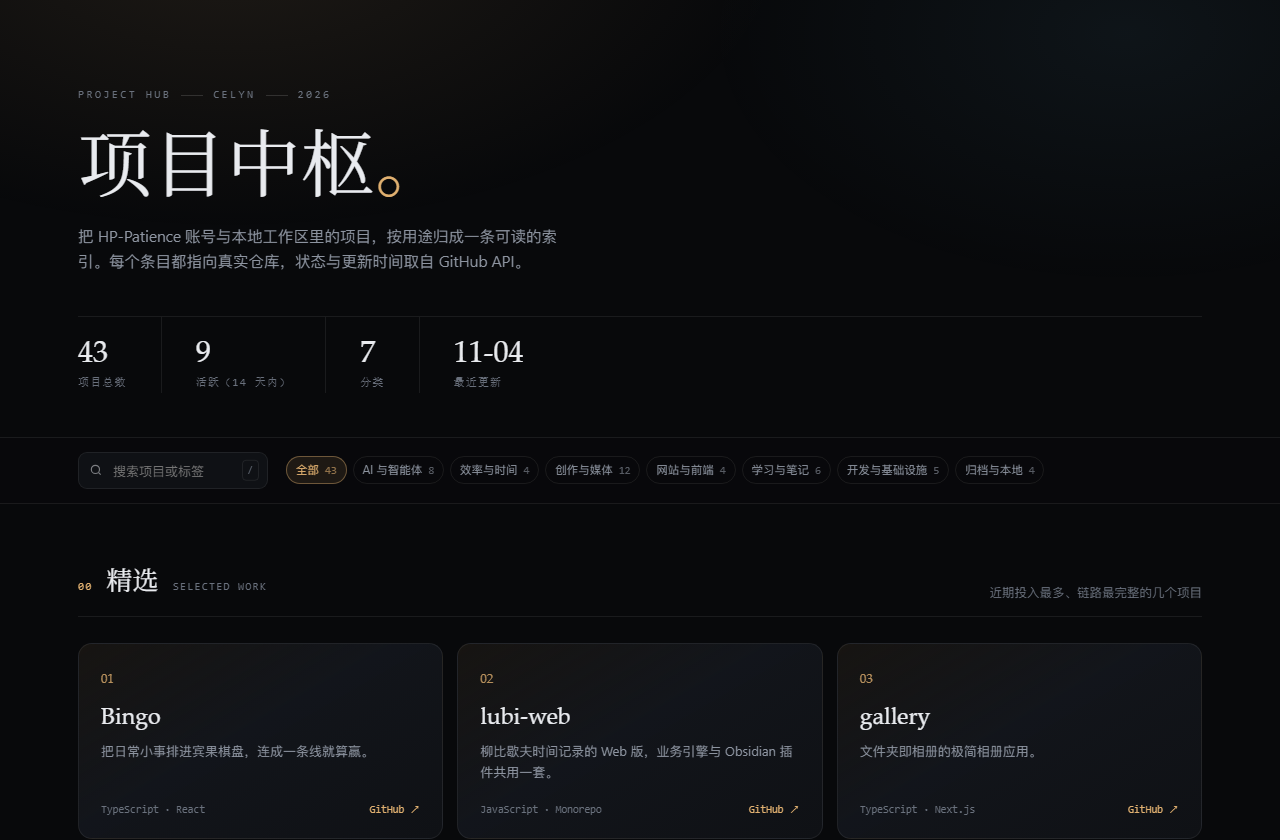
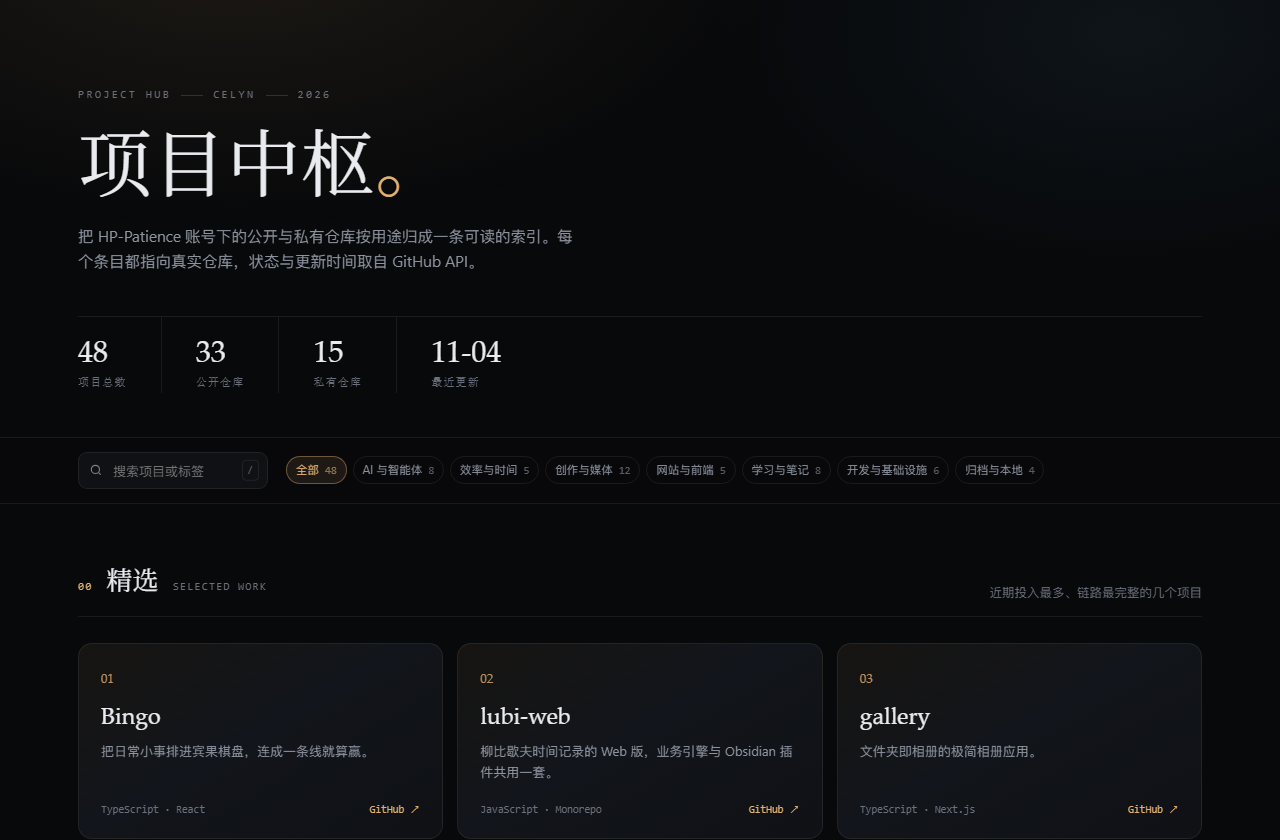
fix: 私有仓库标注为私有，补齐 5 个私有仓（43→48）

diff --git a/index.html b/index.html
@@ -128,6 +128,9 @@
   .status[data-s="fork"]{color:var(--violet)}
   .status[data-s="archived"],.status[data-s="local"]{color:var(--gray)}
   .owner{color:var(--dim);letter-spacing:.02em}
+  .vis{font-family:var(--mono);font-size:9.5px;letter-spacing:.06em;color:var(--amber);
+    border:1px solid rgba(240,184,102,.32);background:rgba(240,184,102,.07);
+    border-radius:4px;padding:1px 5px;margin-left:auto}
   .card h3{margin:0;font-size:17px;font-weight:600;letter-spacing:.005em;line-height:1.35}
   .card h3 a{background-image:linear-gradient(var(--accent),var(--accent));background-size:0 1px;background-repeat:no-repeat;background-position:0 100%;transition:background-size .25s}
   .card:hover h3 a{background-size:100% 1px}
@@ -197,7 +200,7 @@
   <div class="wrap">
     <div class="eyebrow">Project Hub <span class="sep"></span> Celyn <span class="sep"></span> 2026</div>
     <h1>项目中枢<em>。</em></h1>
-    <p class="lede">把 HP-Patience 账号与本地工作区里的项目，按用途归成一条可读的索引。每个条目都指向真实仓库，状态与更新时间取自 GitHub API。</p>
+    <p class="lede">把 HP-Patience 账号下的公开与私有仓库按用途归成一条可读的索引。每个条目都指向真实仓库，状态与更新时间取自 GitHub API。</p>
     <div class="stats" id="stats"></div>
   </div>
 </header>
@@ -240,7 +243,7 @@
     </div>
     <div>
       <div class="mono">生成时间</div>
-      <div>2026-11-04 20:46</div>
+      <div>2026-11-04 21:43</div>
     </div>
     <div>
       <div class="mono">入口</div>
@@ -250,7 +253,7 @@
 </footer>
 
 <script>
-const DATA = {"meta":{"owner":"HP-Patience","accounts":["HP-Patience"],"source":"GitHub REST API（HP-Patience）+ 本地工作区 E:/_Projects/HP_Github_PJ","updated":"2026-11-04"},"categories":[{"id":"ai","name":"AI 与智能体","en":"AI & Agents","desc":"把模型能力落成可用工具：Agent 工作流、技能库、检索与生成。"},{"id":"productivity","name":"效率与时间","en":"Productivity","desc":"任务、时间、知识的管理系统，多数以本地数据与 Markdown 为底座。"},{"id":"creative","name":"创作与媒体","en":"Creative & Media","desc":"图像、声音、视频与游戏：从素材检索到成片输出的完整链路。"},{"id":"web","name":"网站与前端","en":"Web & Frontend","desc":"个人主页、内容工作台与前端练习，多为可直接访问的线上作品。"},{"id":"learning","name":"学习与笔记","en":"Learning & Notes","desc":"课程、教材与研究方向的结构化记录，强调可复习、可追踪。"},{"id":"infra","name":"开发与基础设施","en":"Dev & Infra","desc":"编辑器、桥接层、脚本与配置：支撑上面所有项目的底座。"},{"id":"archive","name":"归档与本地","en":"Archive & Local","desc":"远程已删除、仅本地保留或上游参考版本，不作为活跃项目维护。"}],"projects":[{"name":"Bingo","owner":"HP-Patience","category":"productivity","tagline":"把日常小事排进宾果棋盘，连成一条线就算赢。","desc":"React + Supabase 的宾果式任务管理：完成格子攒 XP、升级解锁头衔，用抽奖与虚拟商店把奖励兑换成真实的休息与零食。","stack":["TypeScript","React","Supabase"],"tags":["任务管理","游戏化","PWA"],"homepage":"https://www.life-bingo.xyz/","featured":true,"updated":"2026-11-04"},{"name":"lubi-web","owner":"HP-Patience","category":"productivity","tagline":"柳比歇夫时间记录的 Web 版，业务引擎与 Obsidian 插件共用一套。","desc":"monorepo（apps + packages），把时间轴记录、计时、周月年回顾与备份搬进浏览器，数据留在本机 SQLite。","stack":["JavaScript","Monorepo","SQLite"],"tags":["时间记录","柳比歇夫","本地优先"],"featured":true,"updated":"2026-11-04"},{"name":"obsidian_task_kanban","owner":"HP-Patience","category":"productivity","tagline":"Lubi 时间记录插件，外加一份开箱即用的 Obsidian 仓库。","desc":"时间轴记录、周/月/年回顾与热力图、周日程任务规划，全部落在纯 Markdown 上，可直接 git 同步。","stack":["TypeScript","Obsidian"],"tags":["Obsidian","时间记录","热力图"],"updated":"2026-11-02"},{"name":"Obsidian_Plugin","owner":"HP-Patience","category":"productivity","tagline":"个人 Obsidian 插件源码合集：Lubi 与 Mermaid Zoom Viewer。","desc":"两个自用插件的源码与构建脚本集中管理，方便统一版本与发布。","stack":["JavaScript","Obsidian"],"tags":["Obsidian","插件开发"],"updated":"2026-11-02"},{"name":"Skills","owner":"HP-Patience","category":"ai","tagline":"面向 AI 编程助手的个人 Agent Skills 合集。","desc":"覆盖学习、写作、规划、需求理解与开发工作流，按可安装的 skill 结构组织。","stack":["Python","Markdown"],"tags":["Agent","Skill","工作流"],"updated":"2026-10-26"},{"name":"DeepTutor","owner":"HP-Patience","category":"ai","tagline":"结合知识库检索的个性化 AI 学习助手。","desc":"在 HKUDS/DeepTutor 基础上做个人化调整：答疑、课程学习与知识理解，支持文档入库检索。","stack":["Python","RAG","Agent"],"tags":["教育","RAG","二次开发"],"statusOverride":"fork","updated":"2026-11-01"},{"name":"MathModelAgent","owner":"HP-Patience","category":"ai","tagline":"数学建模 Agent：从读题到生成可提交的完整论文。","desc":"问题分析、建模求解、代码执行与论文撰写串成一条链路，支持知识库与人机协作。","stack":["Python","Agent"],"tags":["数学建模","论文生成"],"statusOverride":"fork","updated":"2026-10-25"},{"name":"tongflow","owner":"HP-Patience","category":"ai","tagline":"多模态 AI 工作流：用节点编排文本、图像、语音与视频。","desc":"可视化画布组织生成流程，节点间可组合模型与参数，适合把一次性脚本固化成可复用管线。","stack":["TypeScript","React"],"tags":["工作流","多模态","节点编排"],"statusOverride":"fork","updated":"2026-10-11"},{"name":"tongflow-api-xai","owner":"HP-Patience","category":"ai","tagline":"TongFlow 的 xAI Grok 节点插件。","desc":"通过 OpenAI 兼容接口接入聊天、视觉与图像模型，支持逐节点选择模型。","stack":["Python","xAI"],"tags":["插件","API 网关"],"statusOverride":"fork","updated":"2026-10-09"},{"name":"GithubStarsManager","owner":"HP-Patience","category":"ai","tagline":"把 GitHub Star 变成可检索、可分类的个人资料库。","desc":"自动同步星标仓库，用 AI 生成摘要与分类，支持语义搜索与 Release 追踪。","stack":["TypeScript","LLM"],"tags":["GitHub","语义搜索","自动化"],"statusOverride":"fork","updated":"2026-09-07"},{"name":"dsh-directorx","owner":"HP-Patience","category":"ai","tagline":"DeepSeek Harness 插件：视频、图像、音频技能与知识库。","desc":"为本地 Agent 挂载多模态工具与可配置模型，适合做内容生产流水线。","stack":["JavaScript","DeepSeek"],"tags":["插件","多模态"],"statusOverride":"fork","updated":"2026-09-03"},{"name":"genius-mathmodelagent","owner":"HP-Patience","category":"ai","tagline":"对 Modex-MH-Agent 科研助手的逆向分析与结构备份。","desc":"整理后端服务、工作流编排、技能系统与桌面端结构，作为自建科研 Agent 的参考实现。","stack":["Python","Agent"],"tags":["逆向分析","科研助手"],"statusOverride":"local","updated":"2026-11-04"},{"name":"gallery","owner":"HP-Patience","category":"creative","tagline":"文件夹即相册的极简相册应用。","desc":"把图片放进 public/albums 即自动生成相册列表，响应式瀑布流浏览，桌面与移动端均适配。","stack":["TypeScript","Next.js"],"tags":["相册","瀑布流","Vercel"],"homepage":"https://gallery-xi-jet.vercel.app","featured":true,"updated":"2026-11-04"},{"name":"ink-live2d","owner":"HP-Patience","category":"creative","tagline":"墨像：黑白肖像与键鼠桌宠共用一套 Live2D 制作管线。","desc":"InkPortrait 与 InkKeys 两个模型合并维护，包含分层工具、绑定导出与运行验证流程。","stack":["Python","Live2D"],"tags":["Live2D","桌宠","模型制作"],"featured":true,"updated":"2026-11-02"},{"name":"ink-bongocat-live2d","owner":"HP-Patience","category":"creative","tagline":"BongoCat 桌宠运行时：C + SDL3 + OpenGL 的原生窗口。","desc":"跟随键鼠输入做互动的轻量桌宠应用，自带演示模型；自定义模型资产（Ruotengwu，后改名 InkKeys）已迁至 ink-live2d，本仓保留应用本体。","stack":["C","SDL3","OpenGL"],"tags":["桌宠","原生","运行时"],"statusOverride":"local","updated":"2026-11-03"},{"name":"LocalMediaSearch","owner":"HP-Patience","category":"creative","tagline":"镜库：用一句话或一张参考图，找到本机里的素材。","desc":"基于 EmbeddingGemma 2 的本地多模态检索，覆盖视频、图片、音频、文本与代码，定位后可导出。","stack":["Python","Embedding","Windows"],"tags":["素材检索","多模态","本地优先"],"featured":true,"updated":"2026-10-12"},{"name":"MusiCue","owner":"HP-Patience","category":"creative","tagline":"听得懂心情的 AI 电台，按场景生成渐进式歌单。","desc":"用自然语言描述需求，模型结合上下文推荐歌曲并持续记忆品味，形成个人 DJ。","stack":["TypeScript","React","LLM"],"tags":["音乐","推荐","LLM"],"featured":true,"updated":"2026-08-29"},{"name":"pix","owner":"HP-Patience","category":"creative","tagline":"面向游戏开发的 AI 像素资产平台。","desc":"整合图像生成、去背景、限色、序列帧处理与资产管理，输出可直接进引擎的像素素材。","stack":["Python","FastAPI","React"],"tags":["像素画","游戏资产","生成"],"statusOverride":"fork","updated":"2026-09-10"},{"name":"voicebox","owner":"HP-Patience","category":"creative","tagline":"本地 AI 语音工作室：克隆、合成、听写与 Agent 接口。","desc":"把声音克隆、多语言语音合成与快捷键听写收进一个桌面应用，并提供给 Agent 调用的语音接口。","stack":["TypeScript","TTS"],"tags":["语音克隆","TTS","本地"],"statusOverride":"fork","updated":"2026-09-19"},{"name":"VoxCPM","owner":"HP-Patience","category":"creative","tagline":"无分词器的多语言语音合成，支持音色设计。","desc":"在上游模型基础上做本地化实验：多语言生成、创意音色设计与可控声音克隆。","stack":["Python","TTS"],"tags":["语音合成","模型"],"statusOverride":"fork","updated":"2026-09-14"},{"name":"openscreen","owner":"HP-Patience","category":"creative","tagline":"免费做演示视频：无订阅、无水印，可商用。","desc":"屏幕录制与镜头编排工具，面向产品演示与操作讲解，作为 Screen Studio 的替代。","stack":["TypeScript","Electron"],"tags":["录屏","演示视频"],"statusOverride":"fork","updated":"2026-09-19"},{"name":"video-subtitle-remover","owner":"HP-Patience","category":"creative","tagline":"AI 去除视频硬字幕与水印，保持原始分辨率。","desc":"支持自定义区域、批量图片与三平台运行，适合处理二创素材与教学录屏。","stack":["Python","CV"],"tags":["视频修复","去水印"],"statusOverride":"fork","updated":"2026-06-30"},{"name":"ember-covenant-sanctuary","owner":"HP-Patience","category":"creative","tagline":"《烬契圣堂》：高对比像素风俯视角动作肉鸽原型。","desc":"自由瞄准射击、净焰脉冲与双面契印构成核心循环，圣堂地图按房间推进。","stack":["JavaScript","Canvas"],"tags":["游戏","像素风","Roguelike"],"updated":"2026-09-05"},{"name":"video-parser","owner":"HP-Patience","category":"creative","tagline":"本地视频资料工作台：下载、抽帧、字幕、转写与归档。","desc":"链接解析下载后串起封面抽帧、B 站字幕、Whisper CUDA 批量转写与 AI 画面分析，提供 React 界面与 Python CLI。","stack":["Python","React","Whisper"],"tags":["视频处理","字幕","归档"],"statusOverride":"local","updated":"2026-10-29"},{"name":"HP-Patience","owner":"HP-Patience","category":"web","tagline":"GitHub 个人主页：AI 产品、学习系统与个人工具。","desc":"Profile 仓库，用 README 组织项目索引与自我介绍。","stack":["Python","Markdown"],"tags":["Profile","导航"],"updated":"2026-10-12"},{"name":"OpenStock","owner":"HP-Patience","category":"web","tagline":"开源美股行情分析应用，Next.js + shadcn/ui。","desc":"接入 Finnhub 行情与 TradingView 图表，作为付费行情终端的替代方案。","stack":["TypeScript","Next.js"],"tags":["行情","仪表盘"],"statusOverride":"fork","updated":"2026-10-06"},{"name":"Firefly_Hub","owner":"HP-Patience","category":"web","tagline":"博客的本地内容工作台：写、预览、发布一条龙。","desc":"集中管理文章与动态，Markdown 实时预览，并协作源码仓库与静态构建仓库的提交流程。","stack":["JavaScript","Electron"],"tags":["内容管理","Markdown"],"updated":"2026-08-29"},{"name":"frontend-awesome-collection","owner":"HP-Patience","category":"web","tagline":"优秀前端作品的收藏与复刻实践。","desc":"收录网站、交互组件与视觉动效，附设计拆解笔记与可运行复刻版本。","stack":["HTML","CSS","JavaScript"],"tags":["前端","复刻","动效"],"statusOverride":"local","updated":"2026-11-04"},{"name":"English_Context","owner":"HP-Patience","category":"learning","tagline":"把 6098 个考研词汇放进连续故事里记。","desc":"118 个分类结合 AI 释义与例句，用语境理解 + SM-2 间隔复习把单词变成长期记忆。","stack":["TypeScript","React","LLM"],"tags":["考研英语","间隔复习","语境"],"featured":true,"updated":"2026-10-08"},{"name":"course-work","owner":"HP-Patience","category":"learning","tagline":"MIT Missing Semester 与零到全栈的课程材料归档。","desc":"按课程模块整理配套代码与笔记，保留可回看的练习痕迹。","stack":["CSS","Markdown"],"tags":["课程","归档"],"updated":"2026-11-02"},{"name":"my-fullstack-journey","owner":"HP-Patience","category":"learning","tagline":"从零基础到 AI Agent 产品的全栈学习路线。","desc":"覆盖 Python、JavaScript、React、FastAPI、数据库、LLM 与 Agent 开发的阶段性笔记。","stack":["Markdown"],"tags":["路线图","全栈"],"updated":"2026-09-19"},{"name":"DevPatterns","owner":"HP-Patience","category":"learning","tagline":"开发模式与工程实践笔记库。","desc":"前后端架构、工具配置、AI 工作流与项目管理方法的个人沉淀。","stack":["Markdown"],"tags":["架构","工程实践"],"updated":"2026-06-25"},{"name":"worldquant-study-note","owner":"HP-Patience","category":"learning","tagline":"WorldQuant BRAIN 的量化研究笔记与实验记录。","desc":"从 Alpha Research、表达式写法到回测设置，记录实验、结果解读与提交准备。","stack":["Markdown"],"tags":["量化","Alpha","笔记"],"updated":"2026-09-24"},{"name":"mao-probability-statistics","owner":"HP-Patience","category":"learning","tagline":"以茆诗松教材为主线的概率统计学习记录。","desc":"按定义、定理、证明与习题跟踪掌握程度，配合复习进度表。","stack":["Python","Markdown"],"tags":["概率统计","教材"],"statusOverride":"local","updated":"2026-11-04"},{"name":"Tools","owner":"HP-Patience","category":"infra","tagline":"日常 AI 小工具集合，全部可独立运行。","desc":"包含 LLM 接口连通性与响应速度测试、AI 绘图等本地小工具，按单文件组织便于随手启动。","stack":["HTML","Python"],"tags":["工具集","LLM 测试"],"updated":"2026-11-04"},{"name":"dotfiles","owner":"HP-Patience","category":"infra","tagline":"Linux 服务器的 Zsh 配置与一键安装脚本。","desc":"Powerlevel10k 主题、常用插件与安装脚本，保证新机器十分钟内可用。","stack":["Shell","Zsh"],"tags":["dotfiles","环境"],"updated":"2026-08-31"},{"name":"open_shuncode","owner":"HP-Patience","category":"infra","tagline":"基于 Code-OSS 的 AI 编辑器，附带远程 MCP 桥接。","desc":"支持原生智能体与多模型协作，并让网页端 AI 通过 MCP 操作本地项目。","stack":["TypeScript","Code-OSS","MCP"],"tags":["编辑器","MCP","Agent"],"statusOverride":"local","updated":"2026-11-04"},{"name":"github-readme-stats","owner":"HP-Patience","category":"infra","tagline":"README 统计卡片的自建实例。","desc":"上游项目的个人部署副本，用于在主页 README 中生成动态统计图，保持数据自持。","stack":["JavaScript","Vercel"],"tags":["徽章","统计","上游参考"],"statusOverride":"fork","updated":"2026-07-31"},{"name":"api-enhanced","owner":"HP-Patience","category":"infra","tagline":"网易云音乐 API 的增强版服务。","desc":"在上游基础上补齐接口与兼容层，为本地音乐类项目提供统一数据源。","stack":["JavaScript","Node.js"],"tags":["API","音乐","上游参考"],"statusOverride":"fork","updated":"2026-06-09"},{"name":"Project_Data_Archive","owner":"HP-Patience","category":"archive","tagline":"项目数据与附件的本地归档仓，仅本地保留。","desc":"集中存放不便入库的素材、导出与备份文件，未推送到远程。","stack":["Archive"],"tags":["归档","本地"],"statusOverride":"local","updated":"2026-11-04"},{"name":"obsidian-kaoyan","owner":"HP-Patience","category":"archive","tagline":"考研向 Obsidian vault，含笔记与附件。","desc":"545 MB / 10,422 文件的主 vault，笔记与附件混存，尚未完成瘦身与 LFS 迁移。","stack":["Markdown","Obsidian"],"tags":["Obsidian","vault","本地"],"statusOverride":"local","updated":"2026-11-04"},{"name":"obsidian-config","owner":"HP-Patience","category":"archive","tagline":"Obsidian 配置快照：插件、主题与工作区布局。","desc":"只备份 .obsidian 目录，不含笔记与附件，用于快速还原编辑环境。","stack":["JSON","Obsidian"],"tags":["配置","备份","本地"],"statusOverride":"local","updated":"2026-11-04"},{"name":"folia-major","owner":"HP-Patience","category":"archive","tagline":"Folia 音乐播放器的本地副本（上游参考）。","desc":"歌词与播放体验做得较完整的上游项目，本地保留用于界面与交互参考。","stack":["TypeScript"],"tags":["上游参考","音乐"],"statusOverride":"local","updated":"2026-10-05"}]};
+const DATA = {"meta":{"owner":"HP-Patience","accounts":["HP-Patience"],"source":"GitHub REST API（HP-Patience 公开 33 + 私有 15）+ 本地工作区 E:/_Projects/HP_Github_PJ","updated":"2026-11-04"},"categories":[{"id":"ai","name":"AI 与智能体","en":"AI & Agents","desc":"把模型能力落成可用工具：Agent 工作流、技能库、检索与生成。"},{"id":"productivity","name":"效率与时间","en":"Productivity","desc":"任务、时间、知识的管理系统，多数以本地数据与 Markdown 为底座。"},{"id":"creative","name":"创作与媒体","en":"Creative & Media","desc":"图像、声音、视频与游戏：从素材检索到成片输出的完整链路。"},{"id":"web","name":"网站与前端","en":"Web & Frontend","desc":"个人主页、内容工作台与前端练习，多为可直接访问的线上作品。"},{"id":"learning","name":"学习与笔记","en":"Learning & Notes","desc":"课程、教材与研究方向的结构化记录，强调可复习、可追踪。"},{"id":"infra","name":"开发与基础设施","en":"Dev & Infra","desc":"编辑器、桥接层、脚本与配置：支撑上面所有项目的底座。"},{"id":"archive","name":"归档与本地","en":"Archive & Local","desc":"长期归档的 vault、配置备份与参考资料，不作为活跃项目维护。"}],"projects":[{"name":"Bingo","owner":"HP-Patience","category":"productivity","tagline":"把日常小事排进宾果棋盘，连成一条线就算赢。","desc":"React + Supabase 的宾果式任务管理：完成格子攒 XP、升级解锁头衔，用抽奖与虚拟商店把奖励兑换成真实的休息与零食。","stack":["TypeScript","React","Supabase"],"tags":["任务管理","游戏化","PWA"],"homepage":"https://www.life-bingo.xyz/","featured":true,"updated":"2026-11-04"},{"name":"lubi-web","owner":"HP-Patience","category":"productivity","tagline":"柳比歇夫时间记录的 Web 版，业务引擎与 Obsidian 插件共用一套。","desc":"monorepo（apps + packages），把时间轴记录、计时、周月年回顾与备份搬进浏览器，数据留在本机 SQLite。","stack":["JavaScript","Monorepo","SQLite"],"tags":["时间记录","柳比歇夫","本地优先"],"featured":true,"updated":"2026-11-04"},{"name":"obsidian_task_kanban","owner":"HP-Patience","category":"productivity","tagline":"Lubi 时间记录插件，外加一份开箱即用的 Obsidian 仓库。","desc":"时间轴记录、周/月/年回顾与热力图、周日程任务规划，全部落在纯 Markdown 上，可直接 git 同步。","stack":["TypeScript","Obsidian"],"tags":["Obsidian","时间记录","热力图"],"updated":"2026-11-02"},{"name":"Obsidian_Plugin","owner":"HP-Patience","category":"productivity","tagline":"个人 Obsidian 插件源码合集：Lubi 与 Mermaid Zoom Viewer。","desc":"两个自用插件的源码与构建脚本集中管理，方便统一版本与发布。","stack":["JavaScript","Obsidian"],"tags":["Obsidian","插件开发"],"updated":"2026-11-02"},{"name":"Skills","owner":"HP-Patience","category":"ai","tagline":"面向 AI 编程助手的个人 Agent Skills 合集。","desc":"覆盖学习、写作、规划、需求理解与开发工作流，按可安装的 skill 结构组织。","stack":["Python","Markdown"],"tags":["Agent","Skill","工作流"],"updated":"2026-10-26"},{"name":"DeepTutor","owner":"HP-Patience","category":"ai","tagline":"结合知识库检索的个性化 AI 学习助手。","desc":"在 HKUDS/DeepTutor 基础上做个人化调整：答疑、课程学习与知识理解，支持文档入库检索。","stack":["Python","RAG","Agent"],"tags":["教育","RAG","二次开发"],"statusOverride":"fork","updated":"2026-11-01"},{"name":"MathModelAgent","owner":"HP-Patience","category":"ai","tagline":"数学建模 Agent：从读题到生成可提交的完整论文。","desc":"问题分析、建模求解、代码执行与论文撰写串成一条链路，支持知识库与人机协作。","stack":["Python","Agent"],"tags":["数学建模","论文生成"],"statusOverride":"fork","updated":"2026-10-25"},{"name":"tongflow","owner":"HP-Patience","category":"ai","tagline":"多模态 AI 工作流：用节点编排文本、图像、语音与视频。","desc":"可视化画布组织生成流程，节点间可组合模型与参数，适合把一次性脚本固化成可复用管线。","stack":["TypeScript","React"],"tags":["工作流","多模态","节点编排"],"statusOverride":"fork","updated":"2026-10-11"},{"name":"tongflow-api-xai","owner":"HP-Patience","category":"ai","tagline":"TongFlow 的 xAI Grok 节点插件。","desc":"通过 OpenAI 兼容接口接入聊天、视觉与图像模型，支持逐节点选择模型。","stack":["Python","xAI"],"tags":["插件","API 网关"],"statusOverride":"fork","updated":"2026-10-09"},{"name":"GithubStarsManager","owner":"HP-Patience","category":"ai","tagline":"把 GitHub Star 变成可检索、可分类的个人资料库。","desc":"自动同步星标仓库，用 AI 生成摘要与分类，支持语义搜索与 Release 追踪。","stack":["TypeScript","LLM"],"tags":["GitHub","语义搜索","自动化"],"statusOverride":"fork","updated":"2026-09-07"},{"name":"dsh-directorx","owner":"HP-Patience","category":"ai","tagline":"DeepSeek Harness 插件：视频、图像、音频技能与知识库。","desc":"为本地 Agent 挂载多模态工具与可配置模型，适合做内容生产流水线。","stack":["JavaScript","DeepSeek"],"tags":["插件","多模态"],"statusOverride":"fork","updated":"2026-09-03"},{"name":"genius-mathmodelagent","owner":"HP-Patience","category":"ai","tagline":"对 Modex-MH-Agent 科研助手的逆向分析与结构备份。","desc":"整理后端服务、工作流编排、技能系统与桌面端结构，作为自建科研 Agent 的参考实现。","stack":["Python","Agent"],"tags":["逆向分析","科研助手"],"updated":"2026-10-25","visibility":"private"},{"name":"gallery","owner":"HP-Patience","category":"creative","tagline":"文件夹即相册的极简相册应用。","desc":"把图片放进 public/albums 即自动生成相册列表，响应式瀑布流浏览，桌面与移动端均适配。","stack":["TypeScript","Next.js"],"tags":["相册","瀑布流","Vercel"],"homepage":"https://gallery-xi-jet.vercel.app","featured":true,"updated":"2026-11-04"},{"name":"ink-live2d","owner":"HP-Patience","category":"creative","tagline":"墨像：黑白肖像与键鼠桌宠共用一套 Live2D 制作管线。","desc":"InkPortrait 与 InkKeys 两个模型合并维护，包含分层工具、绑定导出与运行验证流程。","stack":["Python","Live2D"],"tags":["Live2D","桌宠","模型制作"],"featured":true,"updated":"2026-11-02"},{"name":"ink-bongocat-live2d","owner":"HP-Patience","category":"creative","tagline":"BongoCat 桌宠运行时：C + SDL3 + OpenGL 的原生窗口。","desc":"跟随键鼠输入做互动的轻量桌宠应用，自带演示模型；自定义模型资产（Ruotengwu，后改名 InkKeys）已迁至 ink-live2d，本仓保留应用本体。","stack":["C","SDL3","OpenGL"],"tags":["桌宠","原生","运行时"],"updated":"2026-11-02","visibility":"private"},{"name":"LocalMediaSearch","owner":"HP-Patience","category":"creative","tagline":"镜库：用一句话或一张参考图，找到本机里的素材。","desc":"基于 EmbeddingGemma 2 的本地多模态检索，覆盖视频、图片、音频、文本与代码，定位后可导出。","stack":["Python","Embedding","Windows"],"tags":["素材检索","多模态","本地优先"],"featured":true,"updated":"2026-10-12"},{"name":"MusiCue","owner":"HP-Patience","category":"creative","tagline":"听得懂心情的 AI 电台，按场景生成渐进式歌单。","desc":"用自然语言描述需求，模型结合上下文推荐歌曲并持续记忆品味，形成个人 DJ。","stack":["TypeScript","React","LLM"],"tags":["音乐","推荐","LLM"],"featured":true,"updated":"2026-08-29"},{"name":"pix","owner":"HP-Patience","category":"creative","tagline":"面向游戏开发的 AI 像素资产平台。","desc":"整合图像生成、去背景、限色、序列帧处理与资产管理，输出可直接进引擎的像素素材。","stack":["Python","FastAPI","React"],"tags":["像素画","游戏资产","生成"],"statusOverride":"fork","updated":"2026-09-10"},{"name":"voicebox","owner":"HP-Patience","category":"creative","tagline":"本地 AI 语音工作室：克隆、合成、听写与 Agent 接口。","desc":"把声音克隆、多语言语音合成与快捷键听写收进一个桌面应用，并提供给 Agent 调用的语音接口。","stack":["TypeScript","TTS"],"tags":["语音克隆","TTS","本地"],"statusOverride":"fork","updated":"2026-09-19"},{"name":"VoxCPM","owner":"HP-Patience","category":"creative","tagline":"无分词器的多语言语音合成，支持音色设计。","desc":"在上游模型基础上做本地化实验：多语言生成、创意音色设计与可控声音克隆。","stack":["Python","TTS"],"tags":["语音合成","模型"],"statusOverride":"fork","updated":"2026-09-14"},{"name":"openscreen","owner":"HP-Patience","category":"creative","tagline":"免费做演示视频：无订阅、无水印，可商用。","desc":"屏幕录制与镜头编排工具，面向产品演示与操作讲解，作为 Screen Studio 的替代。","stack":["TypeScript","Electron"],"tags":["录屏","演示视频"],"statusOverride":"fork","updated":"2026-09-19"},{"name":"video-subtitle-remover","owner":"HP-Patience","category":"creative","tagline":"AI 去除视频硬字幕与水印，保持原始分辨率。","desc":"支持自定义区域、批量图片与三平台运行，适合处理二创素材与教学录屏。","stack":["Python","CV"],"tags":["视频修复","去水印"],"statusOverride":"fork","updated":"2026-06-30"},{"name":"ember-covenant-sanctuary","owner":"HP-Patience","category":"creative","tagline":"《烬契圣堂》：高对比像素风俯视角动作肉鸽原型。","desc":"自由瞄准射击、净焰脉冲与双面契印构成核心循环，圣堂地图按房间推进。","stack":["JavaScript","Canvas"],"tags":["游戏","像素风","Roguelike"],"updated":"2026-09-05"},{"name":"video-parser","owner":"HP-Patience","category":"creative","tagline":"本地视频资料工作台：下载、抽帧、字幕、转写与归档。","desc":"链接解析下载后串起封面抽帧、B 站字幕、Whisper CUDA 批量转写与 AI 画面分析，提供 React 界面与 Python CLI。","stack":["Python","React","Whisper"],"tags":["视频处理","字幕","归档"],"updated":"2026-10-28","visibility":"private"},{"name":"HP-Patience","owner":"HP-Patience","category":"web","tagline":"GitHub 个人主页：AI 产品、学习系统与个人工具。","desc":"Profile 仓库，用 README 组织项目索引与自我介绍。","stack":["Python","Markdown"],"tags":["Profile","导航"],"updated":"2026-10-12"},{"name":"OpenStock","owner":"HP-Patience","category":"web","tagline":"开源美股行情分析应用，Next.js + shadcn/ui。","desc":"接入 Finnhub 行情与 TradingView 图表，作为付费行情终端的替代方案。","stack":["TypeScript","Next.js"],"tags":["行情","仪表盘"],"statusOverride":"fork","updated":"2026-10-06"},{"name":"Firefly_Hub","owner":"HP-Patience","category":"web","tagline":"博客的本地内容工作台：写、预览、发布一条龙。","desc":"集中管理文章与动态，Markdown 实时预览，并协作源码仓库与静态构建仓库的提交流程。","stack":["JavaScript","Electron"],"tags":["内容管理","Markdown"],"updated":"2026-08-29"},{"name":"frontend-awesome-collection","owner":"HP-Patience","category":"web","tagline":"优秀前端作品的收藏与复刻实践。","desc":"收录网站、交互组件与视觉动效，附设计拆解笔记与可运行复刻版本。","stack":["HTML","CSS","JavaScript"],"tags":["前端","复刻","动效"],"updated":"2026-11-04","visibility":"private"},{"name":"English_Context","owner":"HP-Patience","category":"learning","tagline":"把 6098 个考研词汇放进连续故事里记。","desc":"118 个分类结合 AI 释义与例句，用语境理解 + SM-2 间隔复习把单词变成长期记忆。","stack":["TypeScript","React","LLM"],"tags":["考研英语","间隔复习","语境"],"featured":true,"updated":"2026-10-08"},{"name":"course-work","owner":"HP-Patience","category":"learning","tagline":"MIT Missing Semester 与零到全栈的课程材料归档。","desc":"按课程模块整理配套代码与笔记，保留可回看的练习痕迹。","stack":["CSS","Markdown"],"tags":["课程","归档"],"updated":"2026-11-02"},{"name":"my-fullstack-journey","owner":"HP-Patience","category":"learning","tagline":"从零基础到 AI Agent 产品的全栈学习路线。","desc":"覆盖 Python、JavaScript、React、FastAPI、数据库、LLM 与 Agent 开发的阶段性笔记。","stack":["Markdown"],"tags":["路线图","全栈"],"updated":"2026-09-19"},{"name":"DevPatterns","owner":"HP-Patience","category":"learning","tagline":"开发模式与工程实践笔记库。","desc":"前后端架构、工具配置、AI 工作流与项目管理方法的个人沉淀。","stack":["Markdown"],"tags":["架构","工程实践"],"updated":"2026-06-25"},{"name":"worldquant-study-note","owner":"HP-Patience","category":"learning","tagline":"WorldQuant BRAIN 的量化研究笔记与实验记录。","desc":"从 Alpha Research、表达式写法到回测设置，记录实验、结果解读与提交准备。","stack":["Markdown"],"tags":["量化","Alpha","笔记"],"updated":"2026-09-24"},{"name":"mao-probability-statistics","owner":"HP-Patience","category":"learning","tagline":"以茆诗松教材为主线的概率统计学习记录。","desc":"按定义、定理、证明与习题跟踪掌握程度，配合复习进度表。","stack":["Python","Markdown"],"tags":["概率统计","教材"],"updated":"2026-10-25","visibility":"private"},{"name":"Tools","owner":"HP-Patience","category":"infra","tagline":"日常 AI 小工具集合，全部可独立运行。","desc":"包含 LLM 接口连通性与响应速度测试、AI 绘图等本地小工具，按单文件组织便于随手启动。","stack":["HTML","Python"],"tags":["工具集","LLM 测试"],"updated":"2026-11-04"},{"name":"dotfiles","owner":"HP-Patience","category":"infra","tagline":"Linux 服务器的 Zsh 配置与一键安装脚本。","desc":"Powerlevel10k 主题、常用插件与安装脚本，保证新机器十分钟内可用。","stack":["Shell","Zsh"],"tags":["dotfiles","环境"],"updated":"2026-08-31"},{"name":"open_shuncode","owner":"HP-Patience","category":"infra","tagline":"基于 Code-OSS 的 AI 编辑器，附带远程 MCP 桥接。","desc":"支持原生智能体与多模型协作，并让网页端 AI 通过 MCP 操作本地项目。","stack":["TypeScript","Code-OSS","MCP"],"tags":["编辑器","MCP","Agent"],"updated":"2026-11-04","visibility":"private"},{"name":"github-readme-stats","owner":"HP-Patience","category":"infra","tagline":"README 统计卡片的自建实例。","desc":"上游项目的个人部署副本，用于在主页 README 中生成动态统计图，保持数据自持。","stack":["JavaScript","Vercel"],"tags":["徽章","统计","上游参考"],"statusOverride":"fork","updated":"2026-07-31"},{"name":"api-enhanced","owner":"HP-Patience","category":"infra","tagline":"网易云音乐 API 的增强版服务。","desc":"在上游基础上补齐接口与兼容层，为本地音乐类项目提供统一数据源。","stack":["JavaScript","Node.js"],"tags":["API","音乐","上游参考"],"statusOverride":"fork","updated":"2026-06-09"},{"name":"Project_Data_Archive","owner":"HP-Patience","category":"archive","tagline":"项目数据与附件的本地归档仓，仅本地保留。","desc":"集中存放不便入库的素材、导出与备份文件，未推送到远程。","stack":["Archive"],"tags":["归档","本地"],"updated":"2026-06-25","visibility":"private"},{"name":"obsidian-kaoyan","owner":"HP-Patience","category":"archive","tagline":"考研向 Obsidian vault，含笔记与附件。","desc":"545 MB / 10,422 文件的主 vault，笔记与附件混存，尚未完成瘦身与 LFS 迁移。","stack":["Markdown","Obsidian"],"tags":["Obsidian","vault","本地"],"updated":"2026-08-31","visibility":"private"},{"name":"obsidian-config","owner":"HP-Patience","category":"archive","tagline":"Obsidian 配置快照：插件、主题与工作区布局。","desc":"只备份 .obsidian 目录，不含笔记与附件，用于快速还原编辑环境。","stack":["JSON","Obsidian"],"tags":["配置","备份","本地"],"updated":"2026-09-01","visibility":"private"},{"name":"folia-major","owner":"HP-Patience","category":"archive","tagline":"Folia 音乐播放器的本地副本（上游参考）。","desc":"歌词与播放体验做得较完整的上游项目，本地保留用于界面与交互参考。","stack":["TypeScript"],"tags":["上游参考","音乐"],"updated":"2026-10-05","visibility":"private"},{"name":"localtypeless","owner":"HP-Patience","category":"productivity","tagline":"轻触右 Alt 说话，松开即上屏。","desc":"Windows 本地语音输入：录音转写后交给本地语言模型整理、翻译或改写，全流程不依赖云端。","stack":["Python","Whisper"],"tags":["语音输入","本地推理","Windows"],"visibility":"private","updated":"2026-11-04"},{"name":"blog-firefly","owner":"HP-Patience","category":"web","tagline":"Astro + Firefly 主题的个人博客源码。","desc":"记录技术实践、学习笔记与日常，内容与构建分离，静态产物走 CI 部署。","stack":["Astro","TypeScript"],"tags":["博客","Astro"],"visibility":"private","updated":"2026-11-02"},{"name":"undergrad-thesis-crw","owner":"HP-Patience","category":"learning","tagline":"LoRA 微调的中文金融情感分类本科论文。","desc":"在 FinFE 数据集上比较传统机器学习、BERT/RoBERTa 与 Qwen/GLM 微调的效果与成本。","stack":["Python","PyTorch","LoRA"],"tags":["论文","金融情感","微调"],"visibility":"private","updated":"2026-11-01"},{"name":"mit-math-study","owner":"HP-Patience","category":"learning","tagline":"MIT 数学课程的导航与进度同步。","desc":"面向中文学习者整理微积分、线性代数、概率统计的课程索引与学习记录。","stack":["Markdown"],"tags":["数学","课程"],"visibility":"private","updated":"2026-09-18"},{"name":"cc-connect","owner":"HP-Patience","category":"infra","tagline":"把本地 AI 编程助手接到聊天平台。","desc":"个人部署分支：连接本地 Agent 与 Telegram 等平台，包含回复修复与 Codex 桌面任务兼容改进。","stack":["Go","MCP"],"tags":["桥接","IM","Agent"],"visibility":"private","updated":"2026-09-16"}]};
 const CATS = DATA.categories;
 const PROJECTS = DATA.projects;
 
@@ -269,17 +272,19 @@ const STATUS_LABEL = {
   fork:"上游衍生", archived:"已归档", local:"仅本地"
 };
 const esc = s => String(s).replace(/[&<>"']/g, c => ({"&":"&amp;","<":"&lt;",">":"&gt;",'"':"&quot;","'":"&#39;"}[c]));
-const urlOf = p => p.statusOverride === "local" ? "" : `https://github.com/${p.owner}/${p.name}`;
+const urlOf = p => (p.visibility === "private" || p.statusOverride === "local")
+  ? "" : `https://github.com/${p.owner}/${p.name}`;
 
 PROJECTS.forEach(p => { p._s = statusOf(p); });
 
 /* stats */
 const latest = PROJECTS.map(p=>p.updated).sort().pop();
-const activeCount = PROJECTS.filter(p=>p._s==="active").length;
+const pubCount = PROJECTS.filter(p=>p.visibility !== "private").length;
+const privCount = PROJECTS.length - pubCount;
 document.getElementById("stats").innerHTML = [
   ["项目总数", PROJECTS.length],
-  ["活跃（14 天内）", activeCount],
-  ["分类", CATS.length],
+  ["公开仓库", pubCount],
+  ["私有仓库", privCount],
   ["最近更新", latest.slice(5)]
 ].map(([k,v])=>`<div class="stat"><b>${v}</b><span>${k}</span></div>`).join("");
 
@@ -305,11 +310,14 @@ sectionsEl.innerHTML = CATS.map((c,ci)=>{
     const u = urlOf(p);
     const name = u ? `<a href="${u}" target="_blank" rel="noopener">${esc(p.name)}</a>` : esc(p.name);
     const owner = p.owner !== DATA.meta.owner ? `<span class="owner">@${esc(p.owner)}</span>` : "";
-    const foot = u ? `<a class="go" href="${u}" target="_blank" rel="noopener">GitHub ↗</a>` : `<span class="go">未发布</span>`;
+    const foot = u
+      ? `<a class="go" href="${u}" target="_blank" rel="noopener">GitHub ↗</a>`
+      : `<span class="go">${p.visibility === "private" ? "私有仓库" : "未发布"}</span>`;
     const home = p.homepage ? `<a class="go" href="${esc(p.homepage)}" target="_blank" rel="noopener" style="margin-right:10px">在线 ↗</a>` : "";
     return `<article class="card" data-search="${esc((p.name+" "+p.tagline+" "+p.stack.join(" ")+" "+p.tags.join(" ")+" "+p.owner).toLowerCase())}">
       <div class="card-top">
         <span class="status" data-s="${p._s}"><i></i>${STATUS_LABEL[p._s]||p._s}</span>
+        ${p.visibility === "private" ? '<span class="vis">私有</span>' : ""}
         ${owner}
       </div>
       <h3>${name}</h3>

diff --git a/templates/index.html b/templates/index.html
@@ -128,6 +128,9 @@
   .status[data-s="fork"]{color:var(--violet)}
   .status[data-s="archived"],.status[data-s="local"]{color:var(--gray)}
   .owner{color:var(--dim);letter-spacing:.02em}
+  .vis{font-family:var(--mono);font-size:9.5px;letter-spacing:.06em;color:var(--amber);
+    border:1px solid rgba(240,184,102,.32);background:rgba(240,184,102,.07);
+    border-radius:4px;padding:1px 5px;margin-left:auto}
   .card h3{margin:0;font-size:17px;font-weight:600;letter-spacing:.005em;line-height:1.35}
   .card h3 a{background-image:linear-gradient(var(--accent),var(--accent));background-size:0 1px;background-repeat:no-repeat;background-position:0 100%;transition:background-size .25s}
   .card:hover h3 a{background-size:100% 1px}
@@ -197,7 +200,7 @@
   <div class="wrap">
     <div class="eyebrow">Project Hub <span class="sep"></span> Celyn <span class="sep"></span> __YEAR__</div>
     <h1>项目中枢<em>。</em></h1>
-    <p class="lede">把 HP-Patience 账号与本地工作区里的项目，按用途归成一条可读的索引。每个条目都指向真实仓库，状态与更新时间取自 GitHub API。</p>
+    <p class="lede">把 HP-Patience 账号下的公开与私有仓库按用途归成一条可读的索引。每个条目都指向真实仓库，状态与更新时间取自 GitHub API。</p>
     <div class="stats" id="stats"></div>
   </div>
 </header>
@@ -269,17 +272,19 @@ const STATUS_LABEL = {
   fork:"上游衍生", archived:"已归档", local:"仅本地"
 };
 const esc = s => String(s).replace(/[&<>"']/g, c => ({"&":"&amp;","<":"&lt;",">":"&gt;",'"':"&quot;","'":"&#39;"}[c]));
-const urlOf = p => p.statusOverride === "local" ? "" : `https://github.com/${p.owner}/${p.name}`;
+const urlOf = p => (p.visibility === "private" || p.statusOverride === "local")
+  ? "" : `https://github.com/${p.owner}/${p.name}`;
 
 PROJECTS.forEach(p => { p._s = statusOf(p); });
 
 /* stats */
 const latest = PROJECTS.map(p=>p.updated).sort().pop();
-const activeCount = PROJECTS.filter(p=>p._s==="active").length;
+const pubCount = PROJECTS.filter(p=>p.visibility !== "private").length;
+const privCount = PROJECTS.length - pubCount;
 document.getElementById("stats").innerHTML = [
   ["项目总数", PROJECTS.length],
-  ["活跃（14 天内）", activeCount],
-  ["分类", CATS.length],
+  ["公开仓库", pubCount],
+  ["私有仓库", privCount],
   ["最近更新", latest.slice(5)]
 ].map(([k,v])=>`<div class="stat"><b>${v}</b><span>${k}</span></div>`).join("");
 
@@ -305,11 +310,14 @@ sectionsEl.innerHTML = CATS.map((c,ci)=>{
     const u = urlOf(p);
     const name = u ? `<a href="${u}" target="_blank" rel="noopener">${esc(p.name)}</a>` : esc(p.name);
     const owner = p.owner !== DATA.meta.owner ? `<span class="owner">@${esc(p.owner)}</span>` : "";
-    const foot = u ? `<a class="go" href="${u}" target="_blank" rel="noopener">GitHub ↗</a>` : `<span class="go">未发布</span>`;
+    const foot = u
+      ? `<a class="go" href="${u}" target="_blank" rel="noopener">GitHub ↗</a>`
+      : `<span class="go">${p.visibility === "private" ? "私有仓库" : "未发布"}</span>`;
     const home = p.homepage ? `<a class="go" href="${esc(p.homepage)}" target="_blank" rel="noopener" style="margin-right:10px">在线 ↗</a>` : "";
     return `<article class="card" data-search="${esc((p.name+" "+p.tagline+" "+p.stack.join(" ")+" "+p.tags.join(" ")+" "+p.owner).toLowerCase())}">
       <div class="card-top">
         <span class="status" data-s="${p._s}"><i></i>${STATUS_LABEL[p._s]||p._s}</span>
+        ${p.visibility === "private" ? '<span class="vis">私有</span>' : ""}
         ${owner}
       </div>
       <h3>${name}</h3>

diff --git a/build.py b/build.py
@@ -108,12 +108,15 @@ def build_readme(data: dict, today: date, now: str) -> None:
         rows.append("| --- | --- | --- | --- | --- |")
         for p in items:
             name = p["name"]
-            if p.get("statusOverride") != "local":
+            if p.get("statusOverride") != "local" and p.get("visibility") != "private":
                 name = f"[{name}]({REPO_URL.format(owner=p['owner'], name=p['name'])})"
             stack = " · ".join(p["stack"]) if p["stack"] else "—"
+            state = STATUS_LABEL[status_of(p, today)]
+            if p.get("visibility") == "private":
+                state += " · 私有"
             rows.append(
                 f"| {name} | **{p['tagline']}** {p['desc']} | {stack} | "
-                f"{STATUS_LABEL[status_of(p, today)]} | {p['updated']} |"
+                f"{state} | {p['updated']} |"
             )
 
     overview = ["| 分类 | 数量 | 说明 |", "| --- | --- | --- |"]
@@ -121,7 +124,8 @@ def build_readme(data: dict, today: date, now: str) -> None:
         n = sum(1 for p in projects if p["category"] == c["id"])
         overview.append(f"| {c['name']} | {n} | {c['desc']} |")
 
-    active = sum(1 for p in projects if status_of(p, today) == "active")
+    priv = sum(1 for p in projects if p.get("visibility") == "private")
+    pub = len(projects) - priv
     latest = max(p["updated"] for p in projects)
 
     body = f"""<div align="center">
@@ -134,7 +138,7 @@ def build_readme(data: dict, today: date, now: str) -> None:
 
 [**在线浏览 →**]({SITE_URL}) · [个人主页](https://github.com/{owner})
 
-<sub>{len(projects)} 个项目 · {len(cats)} 个分类 · {active} 个近 14 天活跃 · 最近更新 {latest}</sub>
+<sub>{len(projects)} 个项目 · {pub} 个公开 · {priv} 个私有 · {len(cats)} 个分类 · 最近更新 {latest}</sub>
 
 </div>
 
@@ -144,7 +148,7 @@ def build_readme(data: dict, today: date, now: str) -> None:
 
 {chr(10).join(overview)}
 
-状态说明：**活跃** 14 天内推送 · **维护中** 90 天内 · **暂缓** 超过 90 天 · **上游衍生** 基于他人项目二次开发 · **已归档** 停止维护 · **仅本地** 未发布到远程。
+状态说明：**活跃** 14 天内推送 · **维护中** 90 天内 · **暂缓** 超过 90 天 · **上游衍生** 基于他人项目二次开发 · **已归档** 停止维护。标 **私有** 的仓库不公开，索引中不提供链接。
 {chr(10).join(rows)}
 
 ---

diff --git a/README.md b/README.md
@@ -8,7 +8,7 @@
 
 [**在线浏览 →**](https://hp-patience.github.io/Project_Hub/) · [个人主页](https://github.com/HP-Patience)
 
-<sub>43 个项目 · 7 个分类 · 9 个近 14 天活跃 · 最近更新 2026-11-04</sub>
+<sub>48 个项目 · 33 个公开 · 15 个私有 · 7 个分类 · 最近更新 2026-11-04</sub>
 
 </div>
 
@@ -19,14 +19,14 @@
 | 分类 | 数量 | 说明 |
 | --- | --- | --- |
 | AI 与智能体 | 8 | 把模型能力落成可用工具：Agent 工作流、技能库、检索与生成。 |
-| 效率与时间 | 4 | 任务、时间、知识的管理系统，多数以本地数据与 Markdown 为底座。 |
+| 效率与时间 | 5 | 任务、时间、知识的管理系统，多数以本地数据与 Markdown 为底座。 |
 | 创作与媒体 | 12 | 图像、声音、视频与游戏：从素材检索到成片输出的完整链路。 |
-| 网站与前端 | 4 | 个人主页、内容工作台与前端练习，多为可直接访问的线上作品。 |
-| 学习与笔记 | 6 | 课程、教材与研究方向的结构化记录，强调可复习、可追踪。 |
-| 开发与基础设施 | 5 | 编辑器、桥接层、脚本与配置：支撑上面所有项目的底座。 |
-| 归档与本地 | 4 | 远程已删除、仅本地保留或上游参考版本，不作为活跃项目维护。 |
+| 网站与前端 | 5 | 个人主页、内容工作台与前端练习，多为可直接访问的线上作品。 |
+| 学习与笔记 | 8 | 课程、教材与研究方向的结构化记录，强调可复习、可追踪。 |
+| 开发与基础设施 | 6 | 编辑器、桥接层、脚本与配置：支撑上面所有项目的底座。 |
+| 归档与本地 | 4 | 长期归档的 vault、配置备份与参考资料，不作为活跃项目维护。 |
 
-状态说明：**活跃** 14 天内推送 · **维护中** 90 天内 · **暂缓** 超过 90 天 · **上游衍生** 基于他人项目二次开发 · **已归档** 停止维护 · **仅本地** 未发布到远程。
+状态说明：**活跃** 14 天内推送 · **维护中** 90 天内 · **暂缓** 超过 90 天 · **上游衍生** 基于他人项目二次开发 · **已归档** 停止维护。标 **私有** 的仓库不公开，索引中不提供链接。
 
 ### AI 与智能体 · AI & Agents
 
@@ -34,10 +34,10 @@
 
 | 项目 | 说明 | 技术栈 | 状态 | 最近更新 |
 | --- | --- | --- | --- | --- |
-| genius-mathmodelagent | **对 Modex-MH-Agent 科研助手的逆向分析与结构备份。** 整理后端服务、工作流编排、技能系统与桌面端结构，作为自建科研 Agent 的参考实现。 | Python · Agent | 仅本地 | 2026-11-04 |
 | [DeepTutor](https://github.com/HP-Patience/DeepTutor) | **结合知识库检索的个性化 AI 学习助手。** 在 HKUDS/DeepTutor 基础上做个人化调整：答疑、课程学习与知识理解，支持文档入库检索。 | Python · RAG · Agent | 上游衍生 | 2026-11-01 |
 | [Skills](https://github.com/HP-Patience/Skills) | **面向 AI 编程助手的个人 Agent Skills 合集。** 覆盖学习、写作、规划、需求理解与开发工作流，按可安装的 skill 结构组织。 | Python · Markdown | 活跃 | 2026-10-26 |
 | [MathModelAgent](https://github.com/HP-Patience/MathModelAgent) | **数学建模 Agent：从读题到生成可提交的完整论文。** 问题分析、建模求解、代码执行与论文撰写串成一条链路，支持知识库与人机协作。 | Python · Agent | 上游衍生 | 2026-10-25 |
+| genius-mathmodelagent | **对 Modex-MH-Agent 科研助手的逆向分析与结构备份。** 整理后端服务、工作流编排、技能系统与桌面端结构，作为自建科研 Agent 的参考实现。 | Python · Agent | 活跃 · 私有 | 2026-10-25 |
 | [tongflow](https://github.com/HP-Patience/tongflow) | **多模态 AI 工作流：用节点编排文本、图像、语音与视频。** 可视化画布组织生成流程，节点间可组合模型与参数，适合把一次性脚本固化成可复用管线。 | TypeScript · React | 上游衍生 | 2026-10-11 |
 | [tongflow-api-xai](https://github.com/HP-Patience/tongflow-api-xai) | **TongFlow 的 xAI Grok 节点插件。** 通过 OpenAI 兼容接口接入聊天、视觉与图像模型，支持逐节点选择模型。 | Python · xAI | 上游衍生 | 2026-10-09 |
 | [GithubStarsManager](https://github.com/HP-Patience/GithubStarsManager) | **把 GitHub Star 变成可检索、可分类的个人资料库。** 自动同步星标仓库，用 AI 生成摘要与分类，支持语义搜索与 Release 追踪。 | TypeScript · LLM | 上游衍生 | 2026-09-07 |
@@ -51,6 +51,7 @@
 | --- | --- | --- | --- | --- |
 | [Bingo](https://github.com/HP-Patience/Bingo) | **把日常小事排进宾果棋盘，连成一条线就算赢。** React + Supabase 的宾果式任务管理：完成格子攒 XP、升级解锁头衔，用抽奖与虚拟商店把奖励兑换成真实的休息与零食。 | TypeScript · React · Supabase | 活跃 | 2026-11-04 |
 | [lubi-web](https://github.com/HP-Patience/lubi-web) | **柳比歇夫时间记录的 Web 版，业务引擎与 Obsidian 插件共用一套。** monorepo（apps + packages），把时间轴记录、计时、周月年回顾与备份搬进浏览器，数据留在本机 SQLite。 | JavaScript · Monorepo · SQLite | 活跃 | 2026-11-04 |
+| localtypeless | **轻触右 Alt 说话，松开即上屏。** Windows 本地语音输入：录音转写后交给本地语言模型整理、翻译或改写，全流程不依赖云端。 | Python · Whisper | 活跃 · 私有 | 2026-11-04 |
 | [obsidian_task_kanban](https://github.com/HP-Patience/obsidian_task_kanban) | **Lubi 时间记录插件，外加一份开箱即用的 Obsidian 仓库。** 时间轴记录、周/月/年回顾与热力图、周日程任务规划，全部落在纯 Markdown 上，可直接 git 同步。 | TypeScript · Obsidian | 活跃 | 2026-11-02 |
 | [Obsidian_Plugin](https://github.com/HP-Patience/Obsidian_Plugin) | **个人 Obsidian 插件源码合集：Lubi 与 Mermaid Zoom Viewer。** 两个自用插件的源码与构建脚本集中管理，方便统一版本与发布。 | JavaScript · Obsidian | 活跃 | 2026-11-02 |
 
@@ -64,8 +65,8 @@
 | [ink-live2d](https://github.com/HP-Patience/ink-live2d) | **墨像：黑白肖像与键鼠桌宠共用一套 Live2D 制作管线。** InkPortrait 与 InkKeys 两个模型合并维护，包含分层工具、绑定导出与运行验证流程。 | Python · Live2D | 活跃 | 2026-11-02 |
 | [LocalMediaSearch](https://github.com/HP-Patience/LocalMediaSearch) | **镜库：用一句话或一张参考图，找到本机里的素材。** 基于 EmbeddingGemma 2 的本地多模态检索，覆盖视频、图片、音频、文本与代码，定位后可导出。 | Python · Embedding · Windows | 维护中 | 2026-10-12 |
 | [MusiCue](https://github.com/HP-Patience/MusiCue) | **听得懂心情的 AI 电台，按场景生成渐进式歌单。** 用自然语言描述需求，模型结合上下文推荐歌曲并持续记忆品味，形成个人 DJ。 | TypeScript · React · LLM | 维护中 | 2026-08-29 |
-| ink-bongocat-live2d | **BongoCat 桌宠运行时：C + SDL3 + OpenGL 的原生窗口。** 跟随键鼠输入做互动的轻量桌宠应用，自带演示模型；自定义模型资产（Ruotengwu，后改名 InkKeys）已迁至 ink-live2d，本仓保留应用本体。 | C · SDL3 · OpenGL | 仅本地 | 2026-11-03 |
-| video-parser | **本地视频资料工作台：下载、抽帧、字幕、转写与归档。** 链接解析下载后串起封面抽帧、B 站字幕、Whisper CUDA 批量转写与 AI 画面分析，提供 React 界面与 Python CLI。 | Python · React · Whisper | 仅本地 | 2026-10-29 |
+| ink-bongocat-live2d | **BongoCat 桌宠运行时：C + SDL3 + OpenGL 的原生窗口。** 跟随键鼠输入做互动的轻量桌宠应用，自带演示模型；自定义模型资产（Ruotengwu，后改名 InkKeys）已迁至 ink-live2d，本仓保留应用本体。 | C · SDL3 · OpenGL | 活跃 · 私有 | 2026-11-02 |
+| video-parser | **本地视频资料工作台：下载、抽帧、字幕、转写与归档。** 链接解析下载后串起封面抽帧、B 站字幕、Whisper CUDA 批量转写与 AI 画面分析，提供 React 界面与 Python CLI。 | Python · React · Whisper | 活跃 · 私有 | 2026-10-28 |
 | [voicebox](https://github.com/HP-Patience/voicebox) | **本地 AI 语音工作室：克隆、合成、听写与 Agent 接口。** 把声音克隆、多语言语音合成与快捷键听写收进一个桌面应用，并提供给 Agent 调用的语音接口。 | TypeScript · TTS | 上游衍生 | 2026-09-19 |
 | [openscreen](https://github.com/HP-Patience/openscreen) | **免费做演示视频：无订阅、无水印，可商用。** 屏幕录制与镜头编排工具，面向产品演示与操作讲解，作为 Screen Studio 的替代。 | TypeScript · Electron | 上游衍生 | 2026-09-19 |
 | [VoxCPM](https://github.com/HP-Patience/VoxCPM) | **无分词器的多语言语音合成，支持音色设计。** 在上游模型基础上做本地化实验：多语言生成、创意音色设计与可控声音克隆。 | Python · TTS | 上游衍生 | 2026-09-14 |
@@ -79,7 +80,8 @@
 
 | 项目 | 说明 | 技术栈 | 状态 | 最近更新 |
 | --- | --- | --- | --- | --- |
-| frontend-awesome-collection | **优秀前端作品的收藏与复刻实践。** 收录网站、交互组件与视觉动效，附设计拆解笔记与可运行复刻版本。 | HTML · CSS · JavaScript | 仅本地 | 2026-11-04 |
+| frontend-awesome-collection | **优秀前端作品的收藏与复刻实践。** 收录网站、交互组件与视觉动效，附设计拆解笔记与可运行复刻版本。 | HTML · CSS · JavaScript | 活跃 · 私有 | 2026-11-04 |
+| blog-firefly | **Astro + Firefly 主题的个人博客源码。** 记录技术实践、学习笔记与日常，内容与构建分离，静态产物走 CI 部署。 | Astro · TypeScript | 活跃 · 私有 | 2026-11-02 |
 | [HP-Patience](https://github.com/HP-Patience/HP-Patience) | **GitHub 个人主页：AI 产品、学习系统与个人工具。** Profile 仓库，用 README 组织项目索引与自我介绍。 | Python · Markdown | 维护中 | 2026-10-12 |
 | [OpenStock](https://github.com/HP-Patience/OpenStock) | **开源美股行情分析应用，Next.js + shadcn/ui。** 接入 Finnhub 行情与 TradingView 图表，作为付费行情终端的替代方案。 | TypeScript · Next.js | 上游衍生 | 2026-10-06 |
 | [Firefly_Hub](https://github.com/HP-Patience/Firefly_Hub) | **博客的本地内容工作台：写、预览、发布一条龙。** 集中管理文章与动态，Markdown 实时预览，并协作源码仓库与静态构建仓库的提交流程。 | JavaScript · Electron | 维护中 | 2026-08-29 |
@@ -91,10 +93,12 @@
 | 项目 | 说明 | 技术栈 | 状态 | 最近更新 |
 | --- | --- | --- | --- | --- |
 | [English_Context](https://github.com/HP-Patience/English_Context) | **把 6098 个考研词汇放进连续故事里记。** 118 个分类结合 AI 释义与例句，用语境理解 + SM-2 间隔复习把单词变成长期记忆。 | TypeScript · React · LLM | 维护中 | 2026-10-08 |
-| mao-probability-statistics | **以茆诗松教材为主线的概率统计学习记录。** 按定义、定理、证明与习题跟踪掌握程度，配合复习进度表。 | Python · Markdown | 仅本地 | 2026-11-04 |
 | [course-work](https://github.com/HP-Patience/course-work) | **MIT Missing Semester 与零到全栈的课程材料归档。** 按课程模块整理配套代码与笔记，保留可回看的练习痕迹。 | CSS · Markdown | 活跃 | 2026-11-02 |
+| undergrad-thesis-crw | **LoRA 微调的中文金融情感分类本科论文。** 在 FinFE 数据集上比较传统机器学习、BERT/RoBERTa 与 Qwen/GLM 微调的效果与成本。 | Python · PyTorch · LoRA | 活跃 · 私有 | 2026-11-01 |
+| mao-probability-statistics | **以茆诗松教材为主线的概率统计学习记录。** 按定义、定理、证明与习题跟踪掌握程度，配合复习进度表。 | Python · Markdown | 活跃 · 私有 | 2026-10-25 |
 | [worldquant-study-note](https://github.com/HP-Patience/worldquant-study-note) | **WorldQuant BRAIN 的量化研究笔记与实验记录。** 从 Alpha Research、表达式写法到回测设置，记录实验、结果解读与提交准备。 | Markdown | 维护中 | 2026-09-24 |
 | [my-fullstack-journey](https://github.com/HP-Patience/my-fullstack-journey) | **从零基础到 AI Agent 产品的全栈学习路线。** 覆盖 Python、JavaScript、React、FastAPI、数据库、LLM 与 Agent 开发的阶段性笔记。 | Markdown | 维护中 | 2026-09-19 |
+| mit-math-study | **MIT 数学课程的导航与进度同步。** 面向中文学习者整理微积分、线性代数、概率统计的课程索引与学习记录。 | Markdown | 维护中 · 私有 | 2026-09-18 |
 | [DevPatterns](https://github.com/HP-Patience/DevPatterns) | **开发模式与工程实践笔记库。** 前后端架构、工具配置、AI 工作流与项目管理方法的个人沉淀。 | Markdown | 暂缓 | 2026-06-25 |
 
 ### 开发与基础设施 · Dev & Infra
@@ -104,21 +108,22 @@
 | 项目 | 说明 | 技术栈 | 状态 | 最近更新 |
 | --- | --- | --- | --- | --- |
 | [Tools](https://github.com/HP-Patience/Tools) | **日常 AI 小工具集合，全部可独立运行。** 包含 LLM 接口连通性与响应速度测试、AI 绘图等本地小工具，按单文件组织便于随手启动。 | HTML · Python | 活跃 | 2026-11-04 |
-| open_shuncode | **基于 Code-OSS 的 AI 编辑器，附带远程 MCP 桥接。** 支持原生智能体与多模型协作，并让网页端 AI 通过 MCP 操作本地项目。 | TypeScript · Code-OSS · MCP | 仅本地 | 2026-11-04 |
+| open_shuncode | **基于 Code-OSS 的 AI 编辑器，附带远程 MCP 桥接。** 支持原生智能体与多模型协作，并让网页端 AI 通过 MCP 操作本地项目。 | TypeScript · Code-OSS · MCP | 活跃 · 私有 | 2026-11-04 |
+| cc-connect | **把本地 AI 编程助手接到聊天平台。** 个人部署分支：连接本地 Agent 与 Telegram 等平台，包含回复修复与 Codex 桌面任务兼容改进。 | Go · MCP | 维护中 · 私有 | 2026-09-16 |
 | [dotfiles](https://github.com/HP-Patience/dotfiles) | **Linux 服务器的 Zsh 配置与一键安装脚本。** Powerlevel10k 主题、常用插件与安装脚本，保证新机器十分钟内可用。 | Shell · Zsh | 维护中 | 2026-08-31 |
 | [github-readme-stats](https://github.com/HP-Patience/github-readme-stats) | **README 统计卡片的自建实例。** 上游项目的个人部署副本，用于在主页 README 中生成动态统计图，保持数据自持。 | JavaScript · Vercel | 上游衍生 | 2026-07-31 |
 | [api-enhanced](https://github.com/HP-Patience/api-enhanced) | **网易云音乐 API 的增强版服务。** 在上游基础上补齐接口与兼容层，为本地音乐类项目提供统一数据源。 | JavaScript · Node.js | 上游衍生 | 2026-06-09 |
 
 ### 归档与本地 · Archive & Local
 
-远程已删除、仅本地保留或上游参考版本，不作为活跃项目维护。
+长期归档的 vault、配置备份与参考资料，不作为活跃项目维护。
 
 | 项目 | 说明 | 技术栈 | 状态 | 最近更新 |
 | --- | --- | --- | --- | --- |
-| Project_Data_Archive | **项目数据与附件的本地归档仓，仅本地保留。** 集中存放不便入库的素材、导出与备份文件，未推送到远程。 | Archive | 仅本地 | 2026-11-04 |
-| obsidian-kaoyan | **考研向 Obsidian vault，含笔记与附件。** 545 MB / 10,422 文件的主 vault，笔记与附件混存，尚未完成瘦身与 LFS 迁移。 | Markdown · Obsidian | 仅本地 | 2026-11-04 |
-| obsidian-config | **Obsidian 配置快照：插件、主题与工作区布局。** 只备份 .obsidian 目录，不含笔记与附件，用于快速还原编辑环境。 | JSON · Obsidian | 仅本地 | 2026-11-04 |
-| folia-major | **Folia 音乐播放器的本地副本（上游参考）。** 歌词与播放体验做得较完整的上游项目，本地保留用于界面与交互参考。 | TypeScript | 仅本地 | 2026-10-05 |
+| folia-major | **Folia 音乐播放器的本地副本（上游参考）。** 歌词与播放体验做得较完整的上游项目，本地保留用于界面与交互参考。 | TypeScript | 维护中 · 私有 | 2026-10-05 |
+| obsidian-config | **Obsidian 配置快照：插件、主题与工作区布局。** 只备份 .obsidian 目录，不含笔记与附件，用于快速还原编辑环境。 | JSON · Obsidian | 维护中 · 私有 | 2026-09-01 |
+| obsidian-kaoyan | **考研向 Obsidian vault，含笔记与附件。** 545 MB / 10,422 文件的主 vault，笔记与附件混存，尚未完成瘦身与 LFS 迁移。 | Markdown · Obsidian | 维护中 · 私有 | 2026-08-31 |
+| Project_Data_Archive | **项目数据与附件的本地归档仓，仅本地保留。** 集中存放不便入库的素材、导出与备份文件，未推送到远程。 | Archive | 暂缓 · 私有 | 2026-06-25 |
 
 ---
 
@@ -141,4 +146,4 @@ Project_Hub/
 
 字段约定：`name` `owner` `category` `tagline`（一句话）`desc`（两三句）`stack` `tags` `updated`；可选 `homepage` `featured` `statusOverride`（`fork` / `archived` / `local`）。状态默认由 `updated` 推算。
 
-<sub>生成时间 2026-11-04 20:46 · 数据来源 GitHub REST API 与本地工作区</sub>
+<sub>生成时间 2026-11-04 21:43 · 数据来源 GitHub REST API 与本地工作区</sub>
